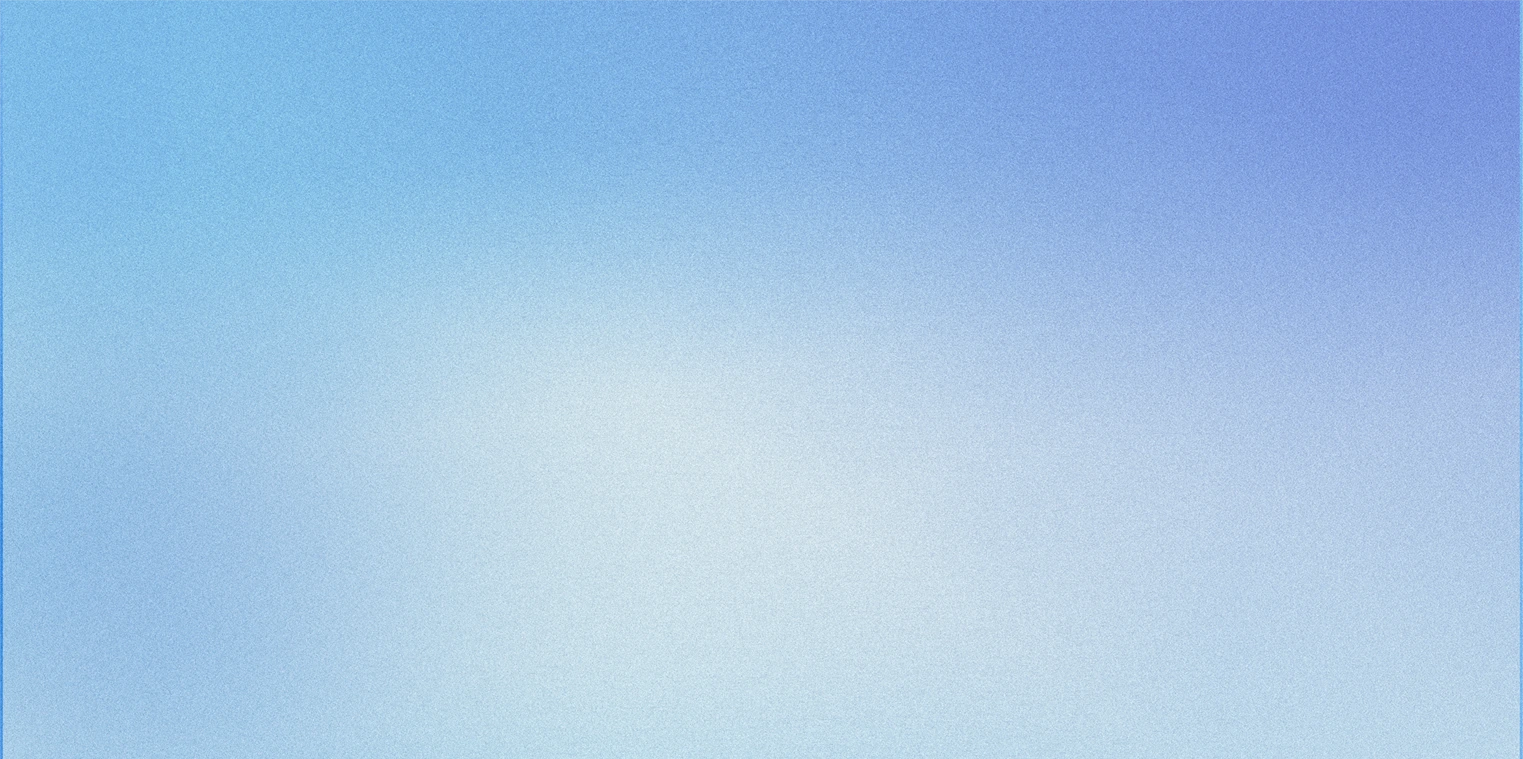
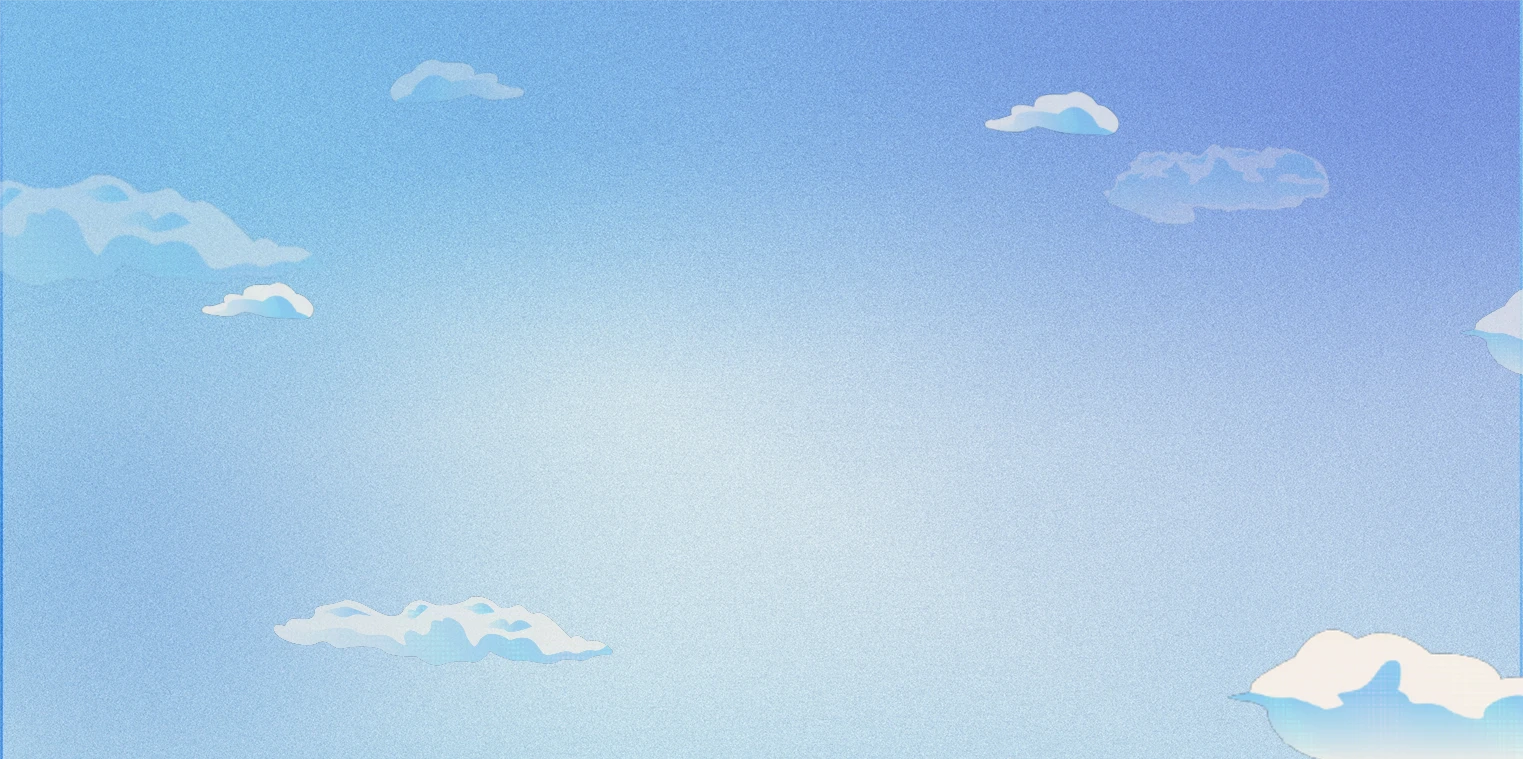
replacing hero section with updated hero bg asset [skip deploy]

diff --git a/src/app/sections/Hero.tsx b/src/app/sections/Hero.tsx
@@ -149,7 +149,20 @@ export default function HeroSection() {
             className="object-contain"
           />
         </div>
-      </div>
+        <div
+          className="absolute top-[70%] right-[60%] w-[40vh] h-64 opacity-70"
+          data-speed="0.8"
+        > 
+          <Image
+            src="/cloud_final1.webp"
+            alt=""
+            fill
+            className="object-contain"
+            sizes="(max-width: 768px) 100vw, 500px"
+            loading="lazy"
+          />
+        </div>
+      </div> */}
 
       {/* Content */}
       <div className="w-full max-w-6xl mx-auto relative pointer-events-none pb-8 sm:pb-14 lg:pb-16 z-40">

diff --git a/src/app/layout.tsx b/src/app/layout.tsx
@@ -27,11 +27,12 @@ export default function RootLayout({
 }: Readonly<{
   children: React.ReactNode;
 }>) {
+  // Create an array of 8 items to map over
+  const bgParts = Array.from({ length: 8 }, (_, i) => i + 1);
+
   return (
     <html lang="en" suppressHydrationWarning>
-      <body
-        className={`${instrumentSans.className} ${ibmPlexMono.variable} antialiased`}
-      >
+      <body className={`${instrumentSans.className} ${ibmPlexMono.variable} antialiased`}>
         <NavigationBar />
         {/* Fixed background element for better performance */}
         {/* <div

diff --git a/src/app/globals.css b/src/app/globals.css
@@ -1,6 +1,6 @@
 @import "tailwindcss";
-@plugin "daisyui";
 @import "tw-animate-css";
+@plugin "daisyui";
 
 @custom-variant dark (&:is(.dark *));
 
@@ -177,7 +177,7 @@ html, body {
 
   /* Site background color */
   html {
-    background-color: #edf6ff;
+    /* background-color: #edf6ff; */
   }
 
   /* Ensure navigation menu dropdowns are above all content */
